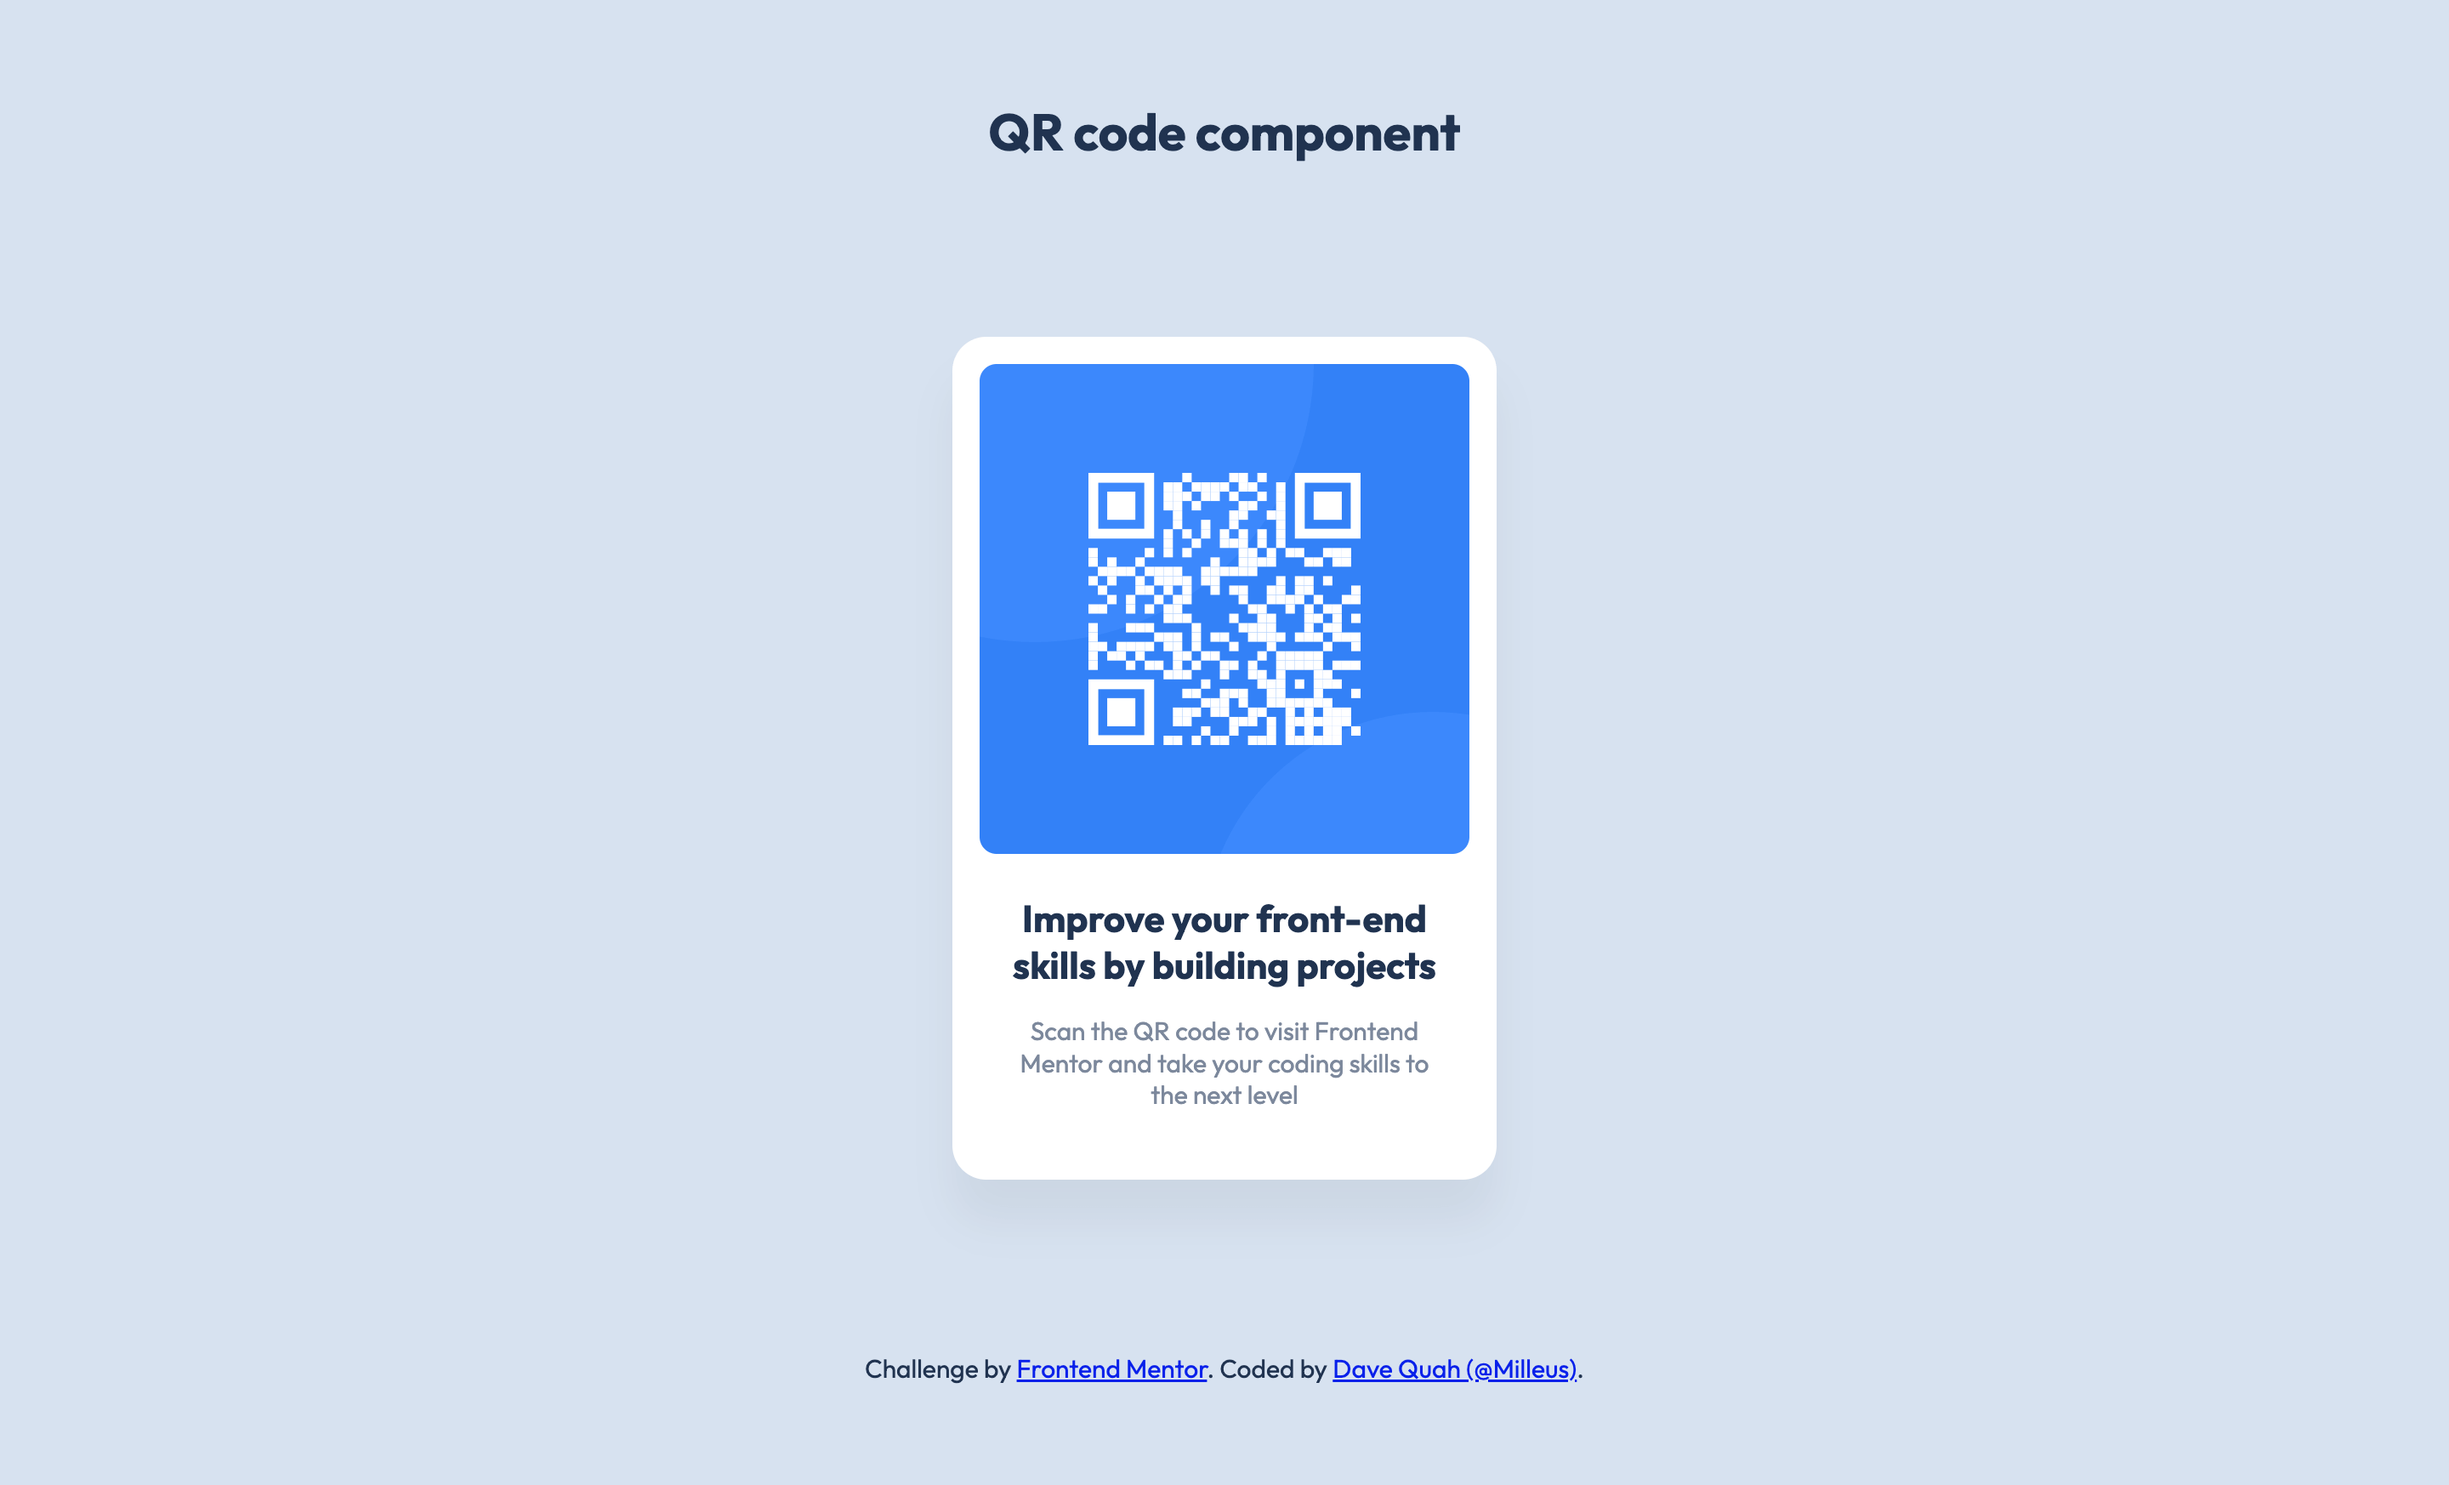
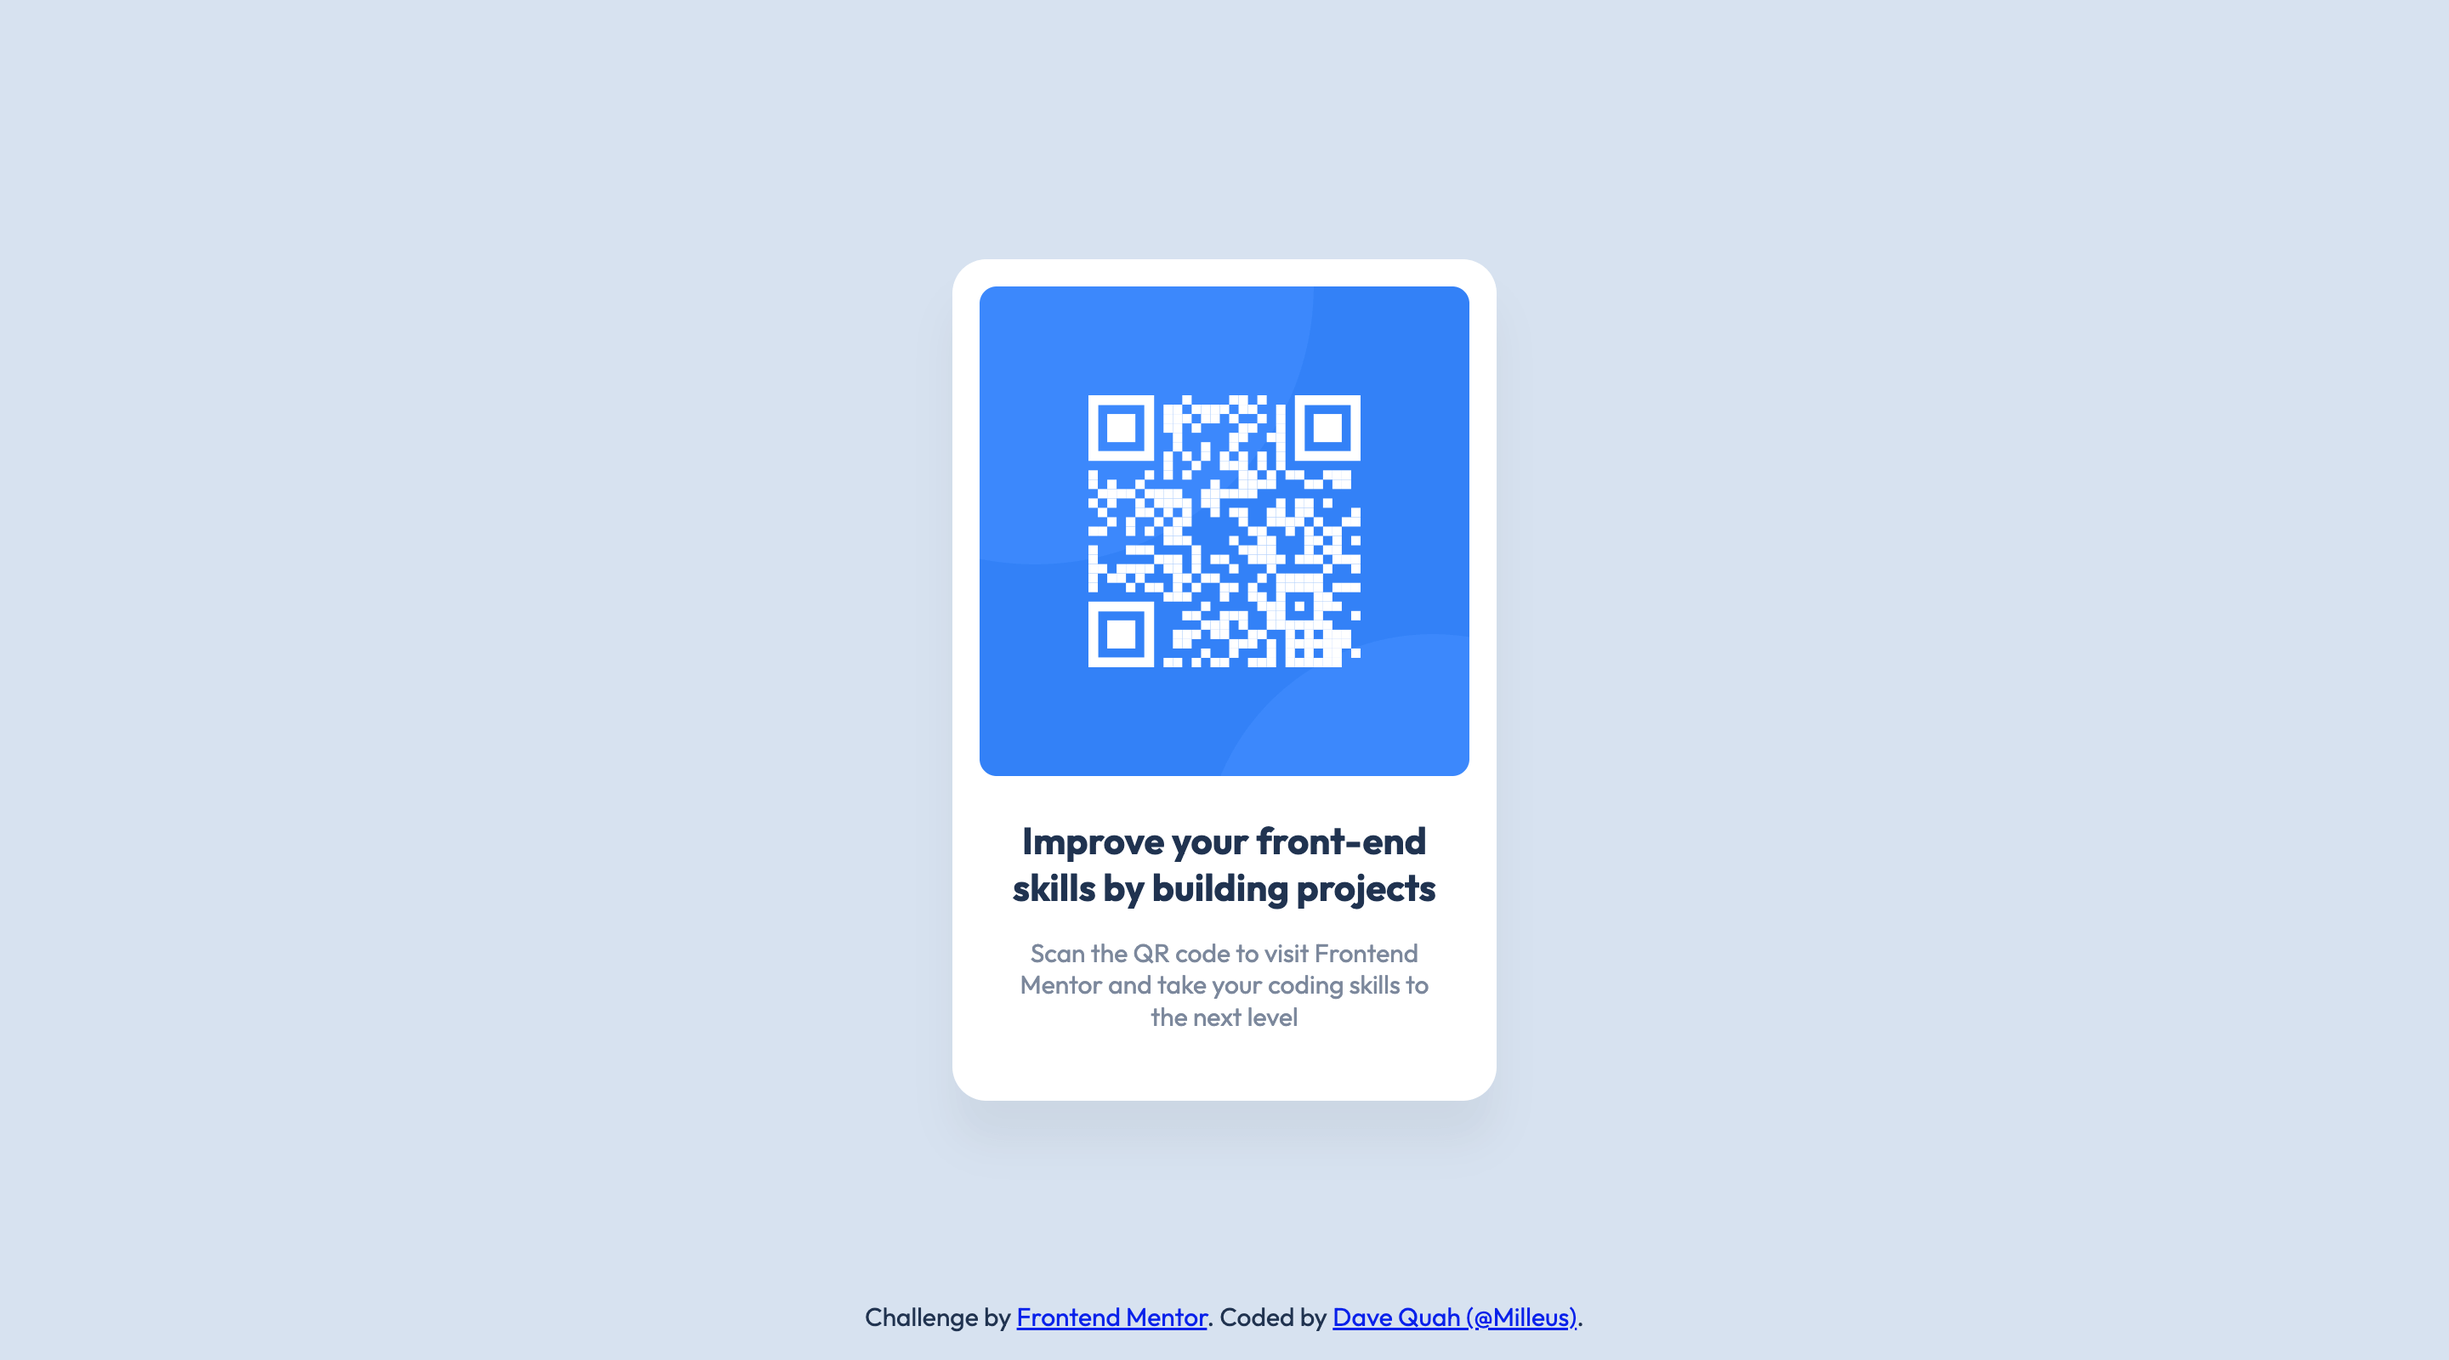
refactor: remove header

diff --git a/index.html b/index.html
@@ -26,25 +26,24 @@
 </head>
 
 <body>
-  <header class="text-neutral-800 text-center my-16">
-    <h1>QR code component</h1>
-  </header>
+  <div class="container grid">
+    <main>
+      <h1 class="sr-only">QR code component</h1>
+      <div class="card bg-neutral-100 text-center">
+        <img src="/assets/image-qr-code.png" alt="qr code to visit https://www.frontendmentor.io/">
+        <h2 class="fs-700 fw-700 text-neutral-800">Improve your front-end skills by building projects</h2>
+        <p>Scan the QR code to visit Frontend Mentor and take your coding skills to the next level</p>
+      </div>
+    </main>
 
-  <main>
-    <div class="card bg-neutral-100 text-center">
-      <img src="/assets/image-qr-code.png" alt="qr code to visit https://www.frontendmentor.io/">
-      <h2 class="fs-700 fw-700 text-neutral-800">Improve your front-end skills by building projects</h2>
-      <p>Scan the QR code to visit Frontend Mentor and take your coding skills to the next level</p>
-    </div>
-  </main>
-
-  <footer class="text-neutral-800 text-center my-16">
-    <p>
-      Challenge by <a href="https://www.frontendmentor.io?ref=challenge" target="_blank" rel="noopener">Frontend
-        Mentor</a>.
-      Coded by <a href="https://www.frontendmentor.io/profile/Milleus">Dave Quah (@Milleus)</a>.
-    </p>
-  </footer>
+    <footer>
+      <p class="text-neutral-800 text-center">
+        Challenge by <a href="https://www.frontendmentor.io?ref=challenge" target="_blank" rel="noopener">Frontend
+          Mentor</a>.
+        Coded by <a href="https://www.frontendmentor.io/profile/Milleus">Dave Quah (@Milleus)</a>.
+      </p>
+    </footer>
+  </div>
 </body>
 
 </html>

diff --git a/global.css b/global.css
@@ -57,14 +57,11 @@ body {
   min-height: 100vh;
   text-rendering: optimizeSpeed;
   line-height: 1.25;
-  display: grid;
-  place-items: center;
   font-family: var(--ff-sans);
   font-size: var(--fs-400);
   font-weight: var(--fw-400);
   color: hsl(var(--clr-neutral-400));
   background-color: hsl(var(--clr-neutral-300));
-  margin-inline: 1.75rem;
 }
 
 /* A elements that don't have a class get default styles */
@@ -102,10 +99,29 @@ select {
     scroll-behavior: auto !important;
   }
 }
+/* ------------------- */
+/* Composition         */
+/* ------------------- */
+.grid {
+  display: grid;
+  gap: var(--grid-gap, 1rem);
+}
 
 /* ------------------- */
 /* Utility             */
 /* ------------------- */
+.sr-only {
+  position: absolute;
+  width: 1px;
+  height: 1px;
+  padding: 0;
+  margin: -1px;
+  overflow: hidden;
+  clip: rect(0, 0, 0, 0);
+  white-space: nowrap;
+  border: 0;
+}
+
 .bg-neutral-100 {
   background-color: hsl(var(--clr-neutral-100));
 }
@@ -122,10 +138,6 @@ select {
   font-weight: var(--fw-700);
 }
 
-.my-16 {
-  margin-block: 1rem;
-}
-
 .text-center {
   text-align: center;
 }
@@ -133,6 +145,27 @@ select {
 /* ------------------- */
 /* Block               */
 /* ------------------- */
+.container {
+  place-items: center;
+  grid-template-rows: 1fr auto 1fr;
+  grid-template-areas:
+    "header"
+    "main"
+    "footer";
+  min-height: 100vh;
+  min-width: fit-content;
+  padding: 1rem 1.75rem;
+}
+
+.container > main {
+  grid-area: main;
+}
+
+.container > footer {
+  grid-area: footer;
+  align-self: end;
+}
+
 .card {
   width: min(100%, 20rem);
   padding: 1rem 1rem 2.5rem;
